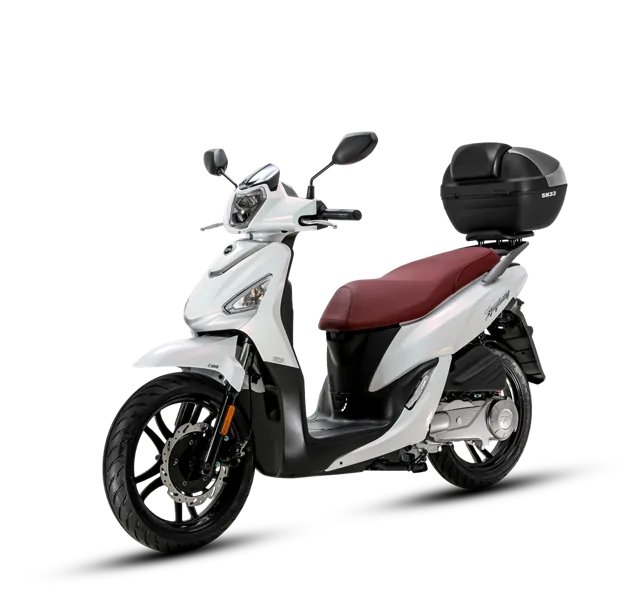
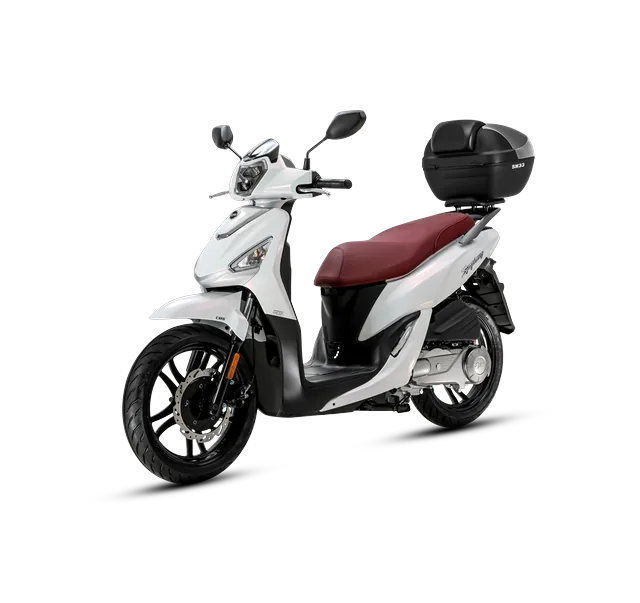
Modelli scelti dal cliente + loghi Piaggio, Vespa, Aprilia, Kymco

Changed region(s): [[0.125, 0.1791, 0.9062, 0.9552]]

diff --git a/index.html b/index.html
@@ -193,7 +193,8 @@
   .autor h2{font-size:clamp(1.9rem,4.2vw,2.8rem);margin:0}
   .autor h2 span{color:var(--arancio)}
   .marche{display:grid;grid-template-columns:repeat(4,1fr);gap:10px}
-  .marche div{border:1px solid rgba(255,255,255,.14);border-radius:8px;padding:18px 8px;text-align:center;font-family:var(--t);font-stretch:76%;font-variation-settings:"wdth" 76;font-weight:900;font-size:1.35rem;text-transform:uppercase;letter-spacing:.02em}
+  .marche div{background:#fff;border-radius:8px;height:84px;padding:14px 16px;display:grid;place-items:center}
+  .marche img{max-width:100%;max-height:52px;width:auto;height:auto}
   .autor p{grid-column:2;color:#B9B2A8;font-size:.98rem;margin-top:-16px}
   @media(max-width:860px){.autor .wrap{grid-template-columns:1fr;gap:22px}.autor p{grid-column:1;margin-top:0}.marche{grid-template-columns:1fr 1fr}}
 
@@ -247,7 +248,7 @@
       </div>
     </div>
     <div class="hero-foto">
-      <img src="img/sym-adx-125.webp" alt="Scooter SYM ADX 125" width="640" height="603">
+      <img src="img/sym-adx-400.webp" alt="Scooter SYM ADX 400" width="640" height="603">
       <div class="badge-sym"><img src="img/sym-logo.webp" alt="Logo SYM" width="42" height="42"><span>Concessionario<br>ufficiale SYM</span></div>
     </div>
   </div>
@@ -282,11 +283,11 @@
     </div>
     <div class="modelli">
       <div class="modello"><img src="img/sym-symphony-125.webp" alt="SYM Symphony 125" loading="lazy" width="640" height="603"><b>Symphony 125</b><span>ruota alta, per la città</span></div>
-      <div class="modello"><img src="img/sym-fiddle.webp" alt="SYM Fiddle" loading="lazy" width="640" height="603"><b>Fiddle</b><span>stile classico</span></div>
-      <div class="modello"><img src="img/sym-jet14-evo.webp" alt="SYM Jet 14 Evo 125" loading="lazy" width="640" height="603"><b>Jet 14 Evo</b><span>sportivo, 125 e 200</span></div>
-      <div class="modello"><img src="img/sym-joymax-z-300.webp" alt="SYM Joymax Z 300" loading="lazy" width="640" height="603"><b>Joymax Z 300</b><span>gran turismo</span></div>
-      <div class="modello"><img src="img/sym-adx-125.webp" alt="SYM ADX 125" loading="lazy" width="640" height="603"><b>ADX 125</b><span>adventure scooter</span></div>
-      <div class="modello"><img src="img/sym-maxsym-tl-508.webp" alt="SYM Maxsym TL 508" loading="lazy" width="640" height="603"><b>Maxsym TL 508</b><span>maxi-scooter</span></div>
+      <div class="modello"><img src="img/sym-fugue-125.webp" alt="SYM Fugue 125" loading="lazy" width="640" height="603"><b>Fugue 125</b><span>stile classico</span></div>
+      <div class="modello"><img src="img/sym-jet-x-125.webp" alt="SYM Jet X 125" loading="lazy" width="640" height="603"><b>Jet X 125</b><span>sportivo</span></div>
+      <div class="modello"><img src="img/sym-adx-300.webp" alt="SYM ADX 300" loading="lazy" width="640" height="603"><b>ADX 300</b><span>adventure scooter</span></div>
+      <div class="modello"><img src="img/sym-cruisym-400.webp" alt="SYM Cruisym 400" loading="lazy" width="640" height="603"><b>Cruisym 400</b><span>maxi-scooter gran turismo</span></div>
+      <div class="modello"><img src="img/sym-adx-400.webp" alt="SYM ADX 400" loading="lazy" width="640" height="603"><b>ADX 400</b><span>adventure, per viaggiare</span></div>
     </div>
     <div class="sym-cta">
       <a href="https://wa.me/393384103110?text=Buongiorno%2C%20vorrei%20informazioni%20su%20uno%20scooter%20SYM" class="btn btn-wa">
@@ -300,7 +301,7 @@
 <section class="autor">
   <div class="wrap">
     <h2>Officina <span>autorizzata</span></h2>
-    <div class="marche"><div>Piaggio</div><div>Vespa</div><div>Aprilia</div><div>Kymco</div></div>
+    <div class="marche"><div><img src="img/logo-piaggio.svg" alt="Piaggio"></div><div><img src="img/logo-vespa.svg" alt="Vespa"></div><div><img src="img/logo-aprilia.svg" alt="Aprilia"></div><div><img src="img/logo-kymco.webp" alt="Kymco"></div></div>
     <p>Tagliandi in garanzia, ricambi e riparazioni secondo le indicazioni della casa. E facciamo tagliandi e riparazioni anche su scooter multimarca.</p>
   </div>
 </section>
